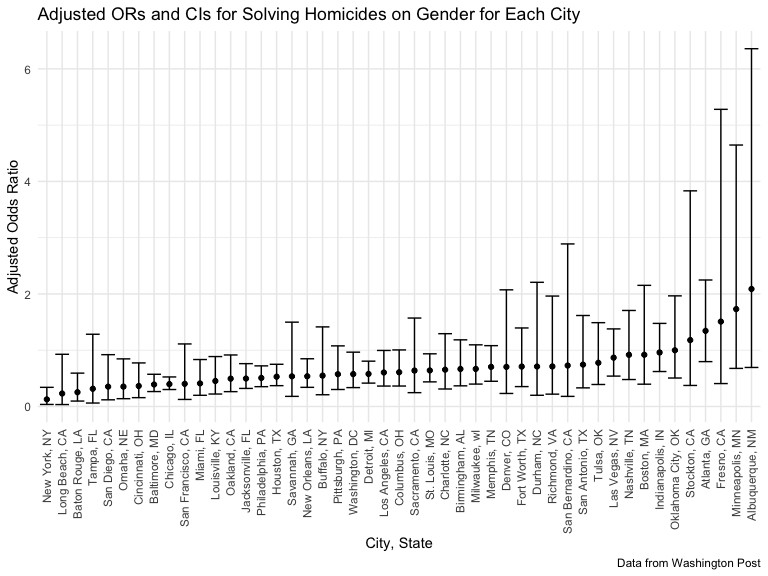
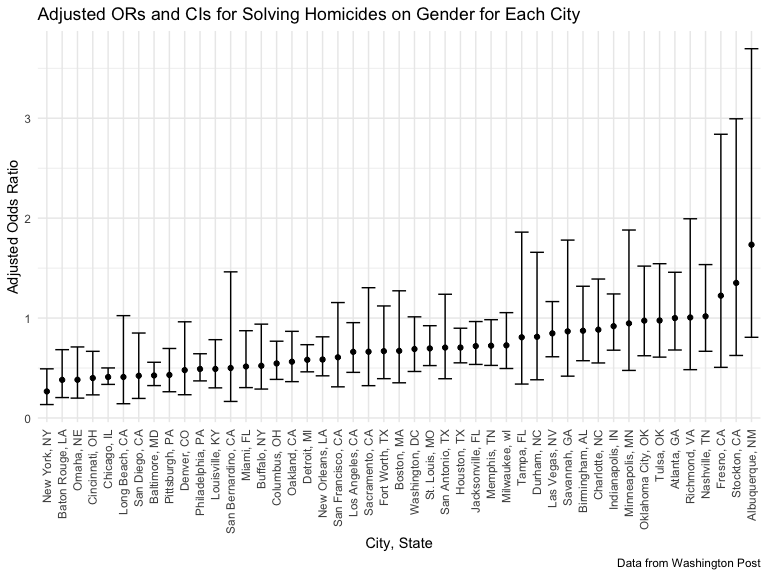
Commit - Amendment on Problem 2 Amend the code for removal of missing values for the data cleaning

diff --git a/p8105_hw6_yy3297.md b/p8105_hw6_yy3297.md
@@ -88,7 +88,7 @@ weather_df %>%
   values of data set.
 
 ``` r
-homicide_raw <- read.csv(file = "data/homicide-data.csv", na = c(" ", "Unknown"))
+homicide_raw <- read.csv(file = "data/homicide-data.csv", na = c(" "))
 ```
 
 - Create a `city_state` variable (e.g. “Baltimore, MD”)；
@@ -99,6 +99,7 @@ homicide_raw <- read.csv(file = "data/homicide-data.csv", na = c(" ", "Unknown")
 - Omit Tulsa, AL – this is a data entry mistake;
 - Limit your analysis those for whom `victim_race` is white or black
 - Convert `victim_age` to be numeric values
+- Remove all rows with missing values in the predictor variables
 
 ``` r
 homicide_df = 
@@ -112,8 +113,12 @@ homicide_df =
     resolved = as.numeric(disposition == "Closed by arrest")
     ) %>%
   relocate(city_state) %>%
-  filter(city_state != c("Tulsa, AL", "Dallas, TX", "Phoenix, AZ", "Kansas City, MO"),
-         victim_race == c("White","Black"))
+  filter(
+    !city_state %in% c("Tulsa, AL", "Dallas, TX","Phoenix, AZ","Kansas City, MO"),
+    victim_race %in% c("White","Black"),
+    victim_age != "Unknown"
+    ) %>%
+  drop_na()
 ```
 
 - First, create a clearer version of data frame for the city of
@@ -155,14 +160,15 @@ baltimore_reg %>%
 
 | term             | log_OR |    OR | CI_Lower | CI_Upper | p.value |
 |:-----------------|-------:|------:|---------:|---------:|--------:|
-| (Intercept)      |  1.421 | 4.140 |    2.124 |    8.262 |   0.000 |
-| victim_age       | -0.011 | 0.989 |    0.980 |    0.999 |   0.027 |
-| victim_sexMale   | -0.940 | 0.391 |    0.265 |    0.572 |   0.000 |
-| victim_raceBlack | -0.923 | 0.397 |    0.239 |    0.655 |   0.000 |
+| (Intercept)      |  1.152 | 3.164 |    1.998 |    5.057 |   0.000 |
+| victim_age       | -0.007 | 0.993 |    0.987 |    1.000 |   0.043 |
+| victim_sexMale   | -0.854 | 0.426 |    0.324 |    0.558 |   0.000 |
+| victim_raceBlack | -0.842 | 0.431 |    0.305 |    0.606 |   0.000 |
 
 Keeping all other variables fixed, homicides in which the victim is male
-are significantly less like to be resolved than those in which the
-victim is female.
+are less likely to be resolved than those in which the victim is female.
+As its adjusted odds ratio is 0.426, and its 95% CI excludes 1 which
+suggests that this value is statistically significant.
 
 - First, create the clearer version of data frame for all cities
   including the important terms of resolved, victim_age, victim_race,
@@ -213,53 +219,53 @@ allcities_reg_knit %>% knitr::kable(digits = 3)
 
 | city_state         | term           | log_OR |    OR | CI_Lower | CI_Upper | p.value |
 |:-------------------|:---------------|-------:|------:|---------:|---------:|--------:|
-| Albuquerque, NM    | victim_sexMale |  0.736 | 2.088 |    0.693 |    6.359 |   0.188 |
-| Atlanta, GA        | victim_sexMale |  0.296 | 1.344 |    0.797 |    2.248 |   0.262 |
-| Baltimore, MD      | victim_sexMale | -0.940 | 0.391 |    0.265 |    0.572 |   0.000 |
-| Baton Rouge, LA    | victim_sexMale | -1.373 | 0.253 |    0.096 |    0.593 |   0.003 |
-| Birmingham, AL     | victim_sexMale | -0.406 | 0.666 |    0.367 |    1.184 |   0.172 |
-| Boston, MA         | victim_sexMale | -0.084 | 0.919 |    0.396 |    2.153 |   0.844 |
-| Buffalo, NY        | victim_sexMale | -0.601 | 0.548 |    0.208 |    1.414 |   0.212 |
-| Charlotte, NC      | victim_sexMale | -0.425 | 0.654 |    0.311 |    1.294 |   0.239 |
-| Chicago, IL        | victim_sexMale | -0.923 | 0.397 |    0.301 |    0.525 |   0.000 |
-| Cincinnati, OH     | victim_sexMale | -1.009 | 0.364 |    0.157 |    0.774 |   0.012 |
-| Columbus, OH       | victim_sexMale | -0.497 | 0.609 |    0.363 |    1.005 |   0.055 |
-| Denver, CO         | victim_sexMale | -0.351 | 0.704 |    0.231 |    2.073 |   0.526 |
-| Detroit, MI        | victim_sexMale | -0.547 | 0.579 |    0.415 |    0.805 |   0.001 |
-| Durham, NC         | victim_sexMale | -0.342 | 0.710 |    0.199 |    2.207 |   0.570 |
-| Fort Worth, TX     | victim_sexMale | -0.344 | 0.709 |    0.353 |    1.395 |   0.324 |
-| Fresno, CA         | victim_sexMale |  0.411 | 1.509 |    0.407 |    5.281 |   0.520 |
-| Houston, TX        | victim_sexMale | -0.637 | 0.529 |    0.370 |    0.750 |   0.000 |
-| Indianapolis, IN   | victim_sexMale | -0.041 | 0.960 |    0.621 |    1.476 |   0.852 |
-| Jacksonville, FL   | victim_sexMale | -0.700 | 0.497 |    0.321 |    0.761 |   0.001 |
-| Las Vegas, NV      | victim_sexMale | -0.142 | 0.868 |    0.540 |    1.379 |   0.552 |
-| Long Beach, CA     | victim_sexMale | -1.468 | 0.230 |    0.034 |    0.928 |   0.067 |
-| Los Angeles, CA    | victim_sexMale | -0.504 | 0.604 |    0.363 |    0.996 |   0.050 |
-| Louisville, KY     | victim_sexMale | -0.792 | 0.453 |    0.221 |    0.887 |   0.024 |
-| Memphis, TN        | victim_sexMale | -0.351 | 0.704 |    0.448 |    1.081 |   0.117 |
-| Miami, FL          | victim_sexMale | -0.891 | 0.410 |    0.199 |    0.834 |   0.014 |
-| Milwaukee, wI      | victim_sexMale | -0.404 | 0.668 |    0.398 |    1.096 |   0.117 |
-| Minneapolis, MN    | victim_sexMale |  0.549 | 1.731 |    0.677 |    4.647 |   0.259 |
-| Nashville, TN      | victim_sexMale | -0.086 | 0.918 |    0.479 |    1.706 |   0.790 |
-| New Orleans, LA    | victim_sexMale | -0.622 | 0.537 |    0.340 |    0.848 |   0.007 |
-| New York, NY       | victim_sexMale | -2.069 | 0.126 |    0.036 |    0.340 |   0.000 |
-| Oakland, CA        | victim_sexMale | -0.705 | 0.494 |    0.264 |    0.915 |   0.026 |
-| Oklahoma City, OK  | victim_sexMale | -0.001 | 0.999 |    0.506 |    1.966 |   0.998 |
-| Omaha, NE          | victim_sexMale | -1.041 | 0.353 |    0.139 |    0.846 |   0.023 |
-| Philadelphia, PA   | victim_sexMale | -0.679 | 0.507 |    0.352 |    0.722 |   0.000 |
-| Pittsburgh, PA     | victim_sexMale | -0.555 | 0.574 |    0.302 |    1.077 |   0.086 |
-| Richmond, VA       | victim_sexMale | -0.340 | 0.712 |    0.219 |    1.963 |   0.535 |
-| San Antonio, TX    | victim_sexMale | -0.296 | 0.744 |    0.331 |    1.617 |   0.462 |
-| Sacramento, CA     | victim_sexMale | -0.449 | 0.638 |    0.246 |    1.572 |   0.338 |
-| Savannah, GA       | victim_sexMale | -0.624 | 0.536 |    0.180 |    1.499 |   0.243 |
-| San Bernardino, CA | victim_sexMale | -0.318 | 0.728 |    0.179 |    2.889 |   0.647 |
-| San Diego, CA      | victim_sexMale | -1.042 | 0.353 |    0.118 |    0.921 |   0.043 |
-| San Francisco, CA  | victim_sexMale | -0.910 | 0.403 |    0.125 |    1.111 |   0.096 |
-| St. Louis, MO      | victim_sexMale | -0.445 | 0.641 |    0.437 |    0.936 |   0.022 |
-| Stockton, CA       | victim_sexMale |  0.165 | 1.180 |    0.374 |    3.832 |   0.778 |
-| Tampa, FL          | victim_sexMale | -1.156 | 0.315 |    0.061 |    1.284 |   0.124 |
-| Tulsa, OK          | victim_sexMale | -0.253 | 0.776 |    0.391 |    1.489 |   0.456 |
-| Washington, DC     | victim_sexMale | -0.553 | 0.575 |    0.336 |    0.965 |   0.040 |
+| Albuquerque, NM    | victim_sexMale |  0.550 | 1.734 |    0.808 |    3.696 |   0.154 |
+| Atlanta, GA        | victim_sexMale |  0.000 | 1.000 |    0.680 |    1.458 |   1.000 |
+| Baltimore, MD      | victim_sexMale | -0.854 | 0.426 |    0.324 |    0.558 |   0.000 |
+| Baton Rouge, LA    | victim_sexMale | -0.964 | 0.381 |    0.204 |    0.684 |   0.002 |
+| Birmingham, AL     | victim_sexMale | -0.136 | 0.873 |    0.573 |    1.318 |   0.521 |
+| Boston, MA         | victim_sexMale | -0.398 | 0.672 |    0.352 |    1.273 |   0.222 |
+| Buffalo, NY        | victim_sexMale | -0.649 | 0.522 |    0.289 |    0.939 |   0.030 |
+| Charlotte, NC      | victim_sexMale | -0.123 | 0.884 |    0.551 |    1.391 |   0.600 |
+| Chicago, IL        | victim_sexMale | -0.891 | 0.410 |    0.336 |    0.501 |   0.000 |
+| Cincinnati, OH     | victim_sexMale | -0.917 | 0.400 |    0.231 |    0.667 |   0.001 |
+| Columbus, OH       | victim_sexMale | -0.605 | 0.546 |    0.386 |    0.768 |   0.001 |
+| Denver, CO         | victim_sexMale | -0.736 | 0.479 |    0.233 |    0.962 |   0.041 |
+| Detroit, MI        | victim_sexMale | -0.541 | 0.582 |    0.462 |    0.734 |   0.000 |
+| Durham, NC         | victim_sexMale | -0.208 | 0.812 |    0.382 |    1.658 |   0.576 |
+| Fort Worth, TX     | victim_sexMale | -0.402 | 0.669 |    0.394 |    1.121 |   0.131 |
+| Fresno, CA         | victim_sexMale |  0.202 | 1.224 |    0.507 |    2.839 |   0.642 |
+| Houston, TX        | victim_sexMale | -0.350 | 0.705 |    0.552 |    0.898 |   0.005 |
+| Indianapolis, IN   | victim_sexMale | -0.085 | 0.919 |    0.678 |    1.241 |   0.582 |
+| Jacksonville, FL   | victim_sexMale | -0.329 | 0.720 |    0.536 |    0.965 |   0.028 |
+| Las Vegas, NV      | victim_sexMale | -0.166 | 0.847 |    0.613 |    1.165 |   0.311 |
+| Long Beach, CA     | victim_sexMale | -0.891 | 0.410 |    0.143 |    1.024 |   0.072 |
+| Los Angeles, CA    | victim_sexMale | -0.413 | 0.662 |    0.457 |    0.954 |   0.028 |
+| Louisville, KY     | victim_sexMale | -0.712 | 0.491 |    0.301 |    0.784 |   0.003 |
+| Memphis, TN        | victim_sexMale | -0.324 | 0.723 |    0.526 |    0.984 |   0.042 |
+| Miami, FL          | victim_sexMale | -0.663 | 0.515 |    0.304 |    0.873 |   0.013 |
+| Milwaukee, wI      | victim_sexMale | -0.319 | 0.727 |    0.495 |    1.054 |   0.098 |
+| Minneapolis, MN    | victim_sexMale | -0.054 | 0.947 |    0.476 |    1.881 |   0.876 |
+| Nashville, TN      | victim_sexMale |  0.017 | 1.018 |    0.667 |    1.535 |   0.935 |
+| New Orleans, LA    | victim_sexMale | -0.536 | 0.585 |    0.422 |    0.812 |   0.001 |
+| New York, NY       | victim_sexMale | -1.325 | 0.266 |    0.134 |    0.492 |   0.000 |
+| Oakland, CA        | victim_sexMale | -0.574 | 0.563 |    0.364 |    0.867 |   0.009 |
+| Oklahoma City, OK  | victim_sexMale | -0.026 | 0.974 |    0.623 |    1.520 |   0.908 |
+| Omaha, NE          | victim_sexMale | -0.961 | 0.382 |    0.199 |    0.711 |   0.003 |
+| Philadelphia, PA   | victim_sexMale | -0.712 | 0.490 |    0.371 |    0.643 |   0.000 |
+| Pittsburgh, PA     | victim_sexMale | -0.842 | 0.431 |    0.263 |    0.696 |   0.001 |
+| Richmond, VA       | victim_sexMale |  0.006 | 1.006 |    0.483 |    1.994 |   0.987 |
+| San Antonio, TX    | victim_sexMale | -0.350 | 0.705 |    0.393 |    1.238 |   0.230 |
+| Sacramento, CA     | victim_sexMale | -0.411 | 0.663 |    0.323 |    1.304 |   0.245 |
+| Savannah, GA       | victim_sexMale | -0.143 | 0.867 |    0.419 |    1.780 |   0.697 |
+| San Bernardino, CA | victim_sexMale | -0.692 | 0.500 |    0.166 |    1.462 |   0.206 |
+| San Diego, CA      | victim_sexMale | -0.861 | 0.423 |    0.196 |    0.850 |   0.020 |
+| San Francisco, CA  | victim_sexMale | -0.498 | 0.608 |    0.312 |    1.155 |   0.134 |
+| St. Louis, MO      | victim_sexMale | -0.362 | 0.696 |    0.524 |    0.924 |   0.012 |
+| Stockton, CA       | victim_sexMale |  0.301 | 1.352 |    0.626 |    2.994 |   0.447 |
+| Tampa, FL          | victim_sexMale | -0.214 | 0.808 |    0.340 |    1.860 |   0.619 |
+| Tulsa, OK          | victim_sexMale | -0.025 | 0.976 |    0.609 |    1.544 |   0.917 |
+| Washington, DC     | victim_sexMale | -0.371 | 0.690 |    0.465 |    1.012 |   0.061 |
 
 - Then, create a plot that shows the estimated ORs and CIs for each
   city.
@@ -293,13 +299,13 @@ excludes 1, which suggests that the gender of victim indeed has
 statistically significant effect on the resolution of homicide cases
 (male victims’ cases are less likely to be resolved than the female
 victims’ cases). However, there are also a few cities with adjusted odds
-ratio \> 1, such as Stockton, Atlanta, Fresno, Minneapolis and
-Albuquerque, which suggests that the homicides in which the victim is
-male are slightly more likely yo be resolved than those in which the
-victim is female generally in these cities. While to be noticed, their
-confidence interval includes 1, which indicates that the gender of
-victim in fact does NOT have statistically significant effect on the
-resolution of homicide cases for these cities.
+ratio \> 1, such as Stockton, Fresno and Albuquerque, which suggests
+that the homicides in which the victim is male are slightly more likely
+yo be resolved than those in which the victim is female generally in
+these cities. While to be noticed, their confidence interval includes 1,
+which indicates that the gender of victim in fact does NOT have
+statistically significant effect on the resolution of homicide cases for
+these cities.
 
 #### Problem 3
 
